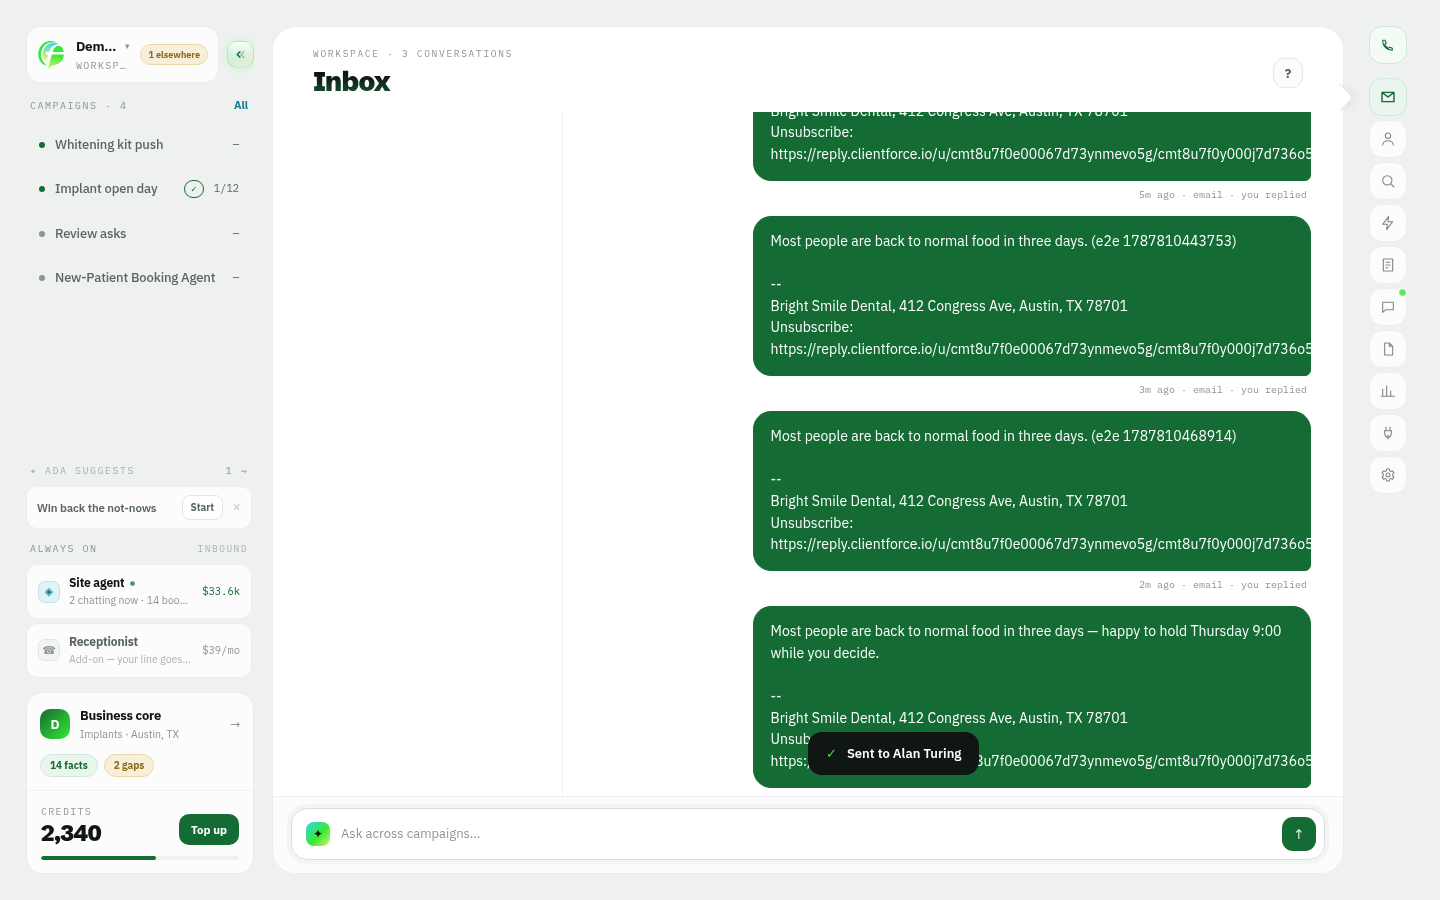
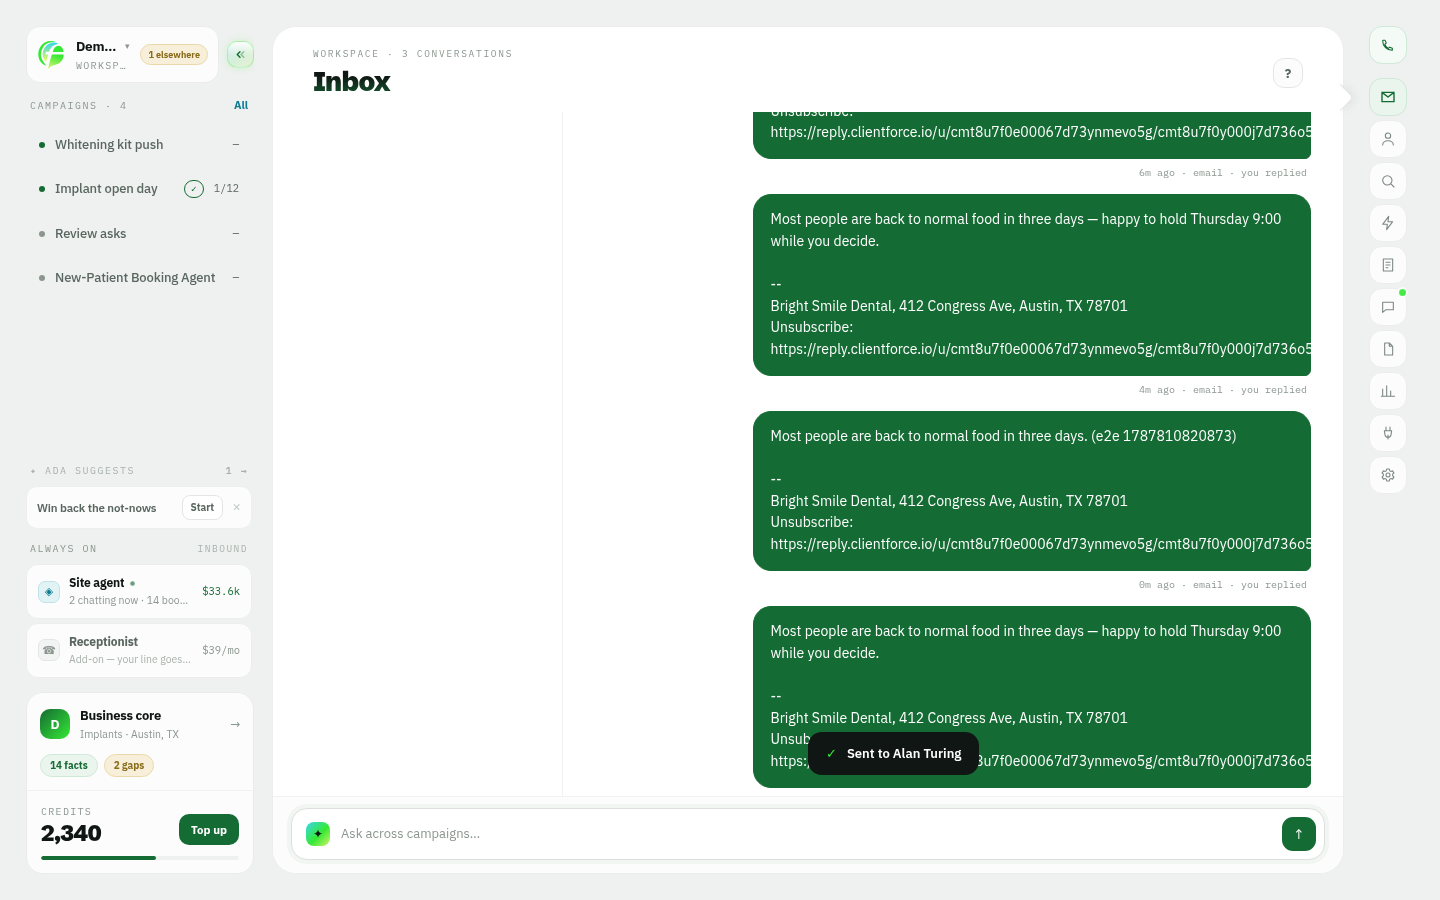
B3b: footer URLs wrap inside bubbles — the pane never widens past its column
Claude-Session: https://claude.ai/code/session_01DbCBayNCFV52DxCeG4RdaG

Changed region(s): [[0.5, 0.1244, 0.9375, 0.28], [0.5312, 0.56, 0.5938, 0.5911], [0.8125, 0.4667, 0.8438, 0.4978]]

diff --git a/apps/web/components/bold/BoldInboxView.tsx b/apps/web/components/bold/BoldInboxView.tsx
@@ -778,6 +778,9 @@ export function BoldInboxView({
                         fontSize: 14,
                         lineHeight: 1.55,
                         whiteSpace: "pre-wrap",
+                        // A long unbroken URL (the compliance footer's
+                        // unsubscribe link) must wrap, never widen the pane.
+                        overflowWrap: "anywhere",
                       }}
                     >
                       {m.body ?? ""}
